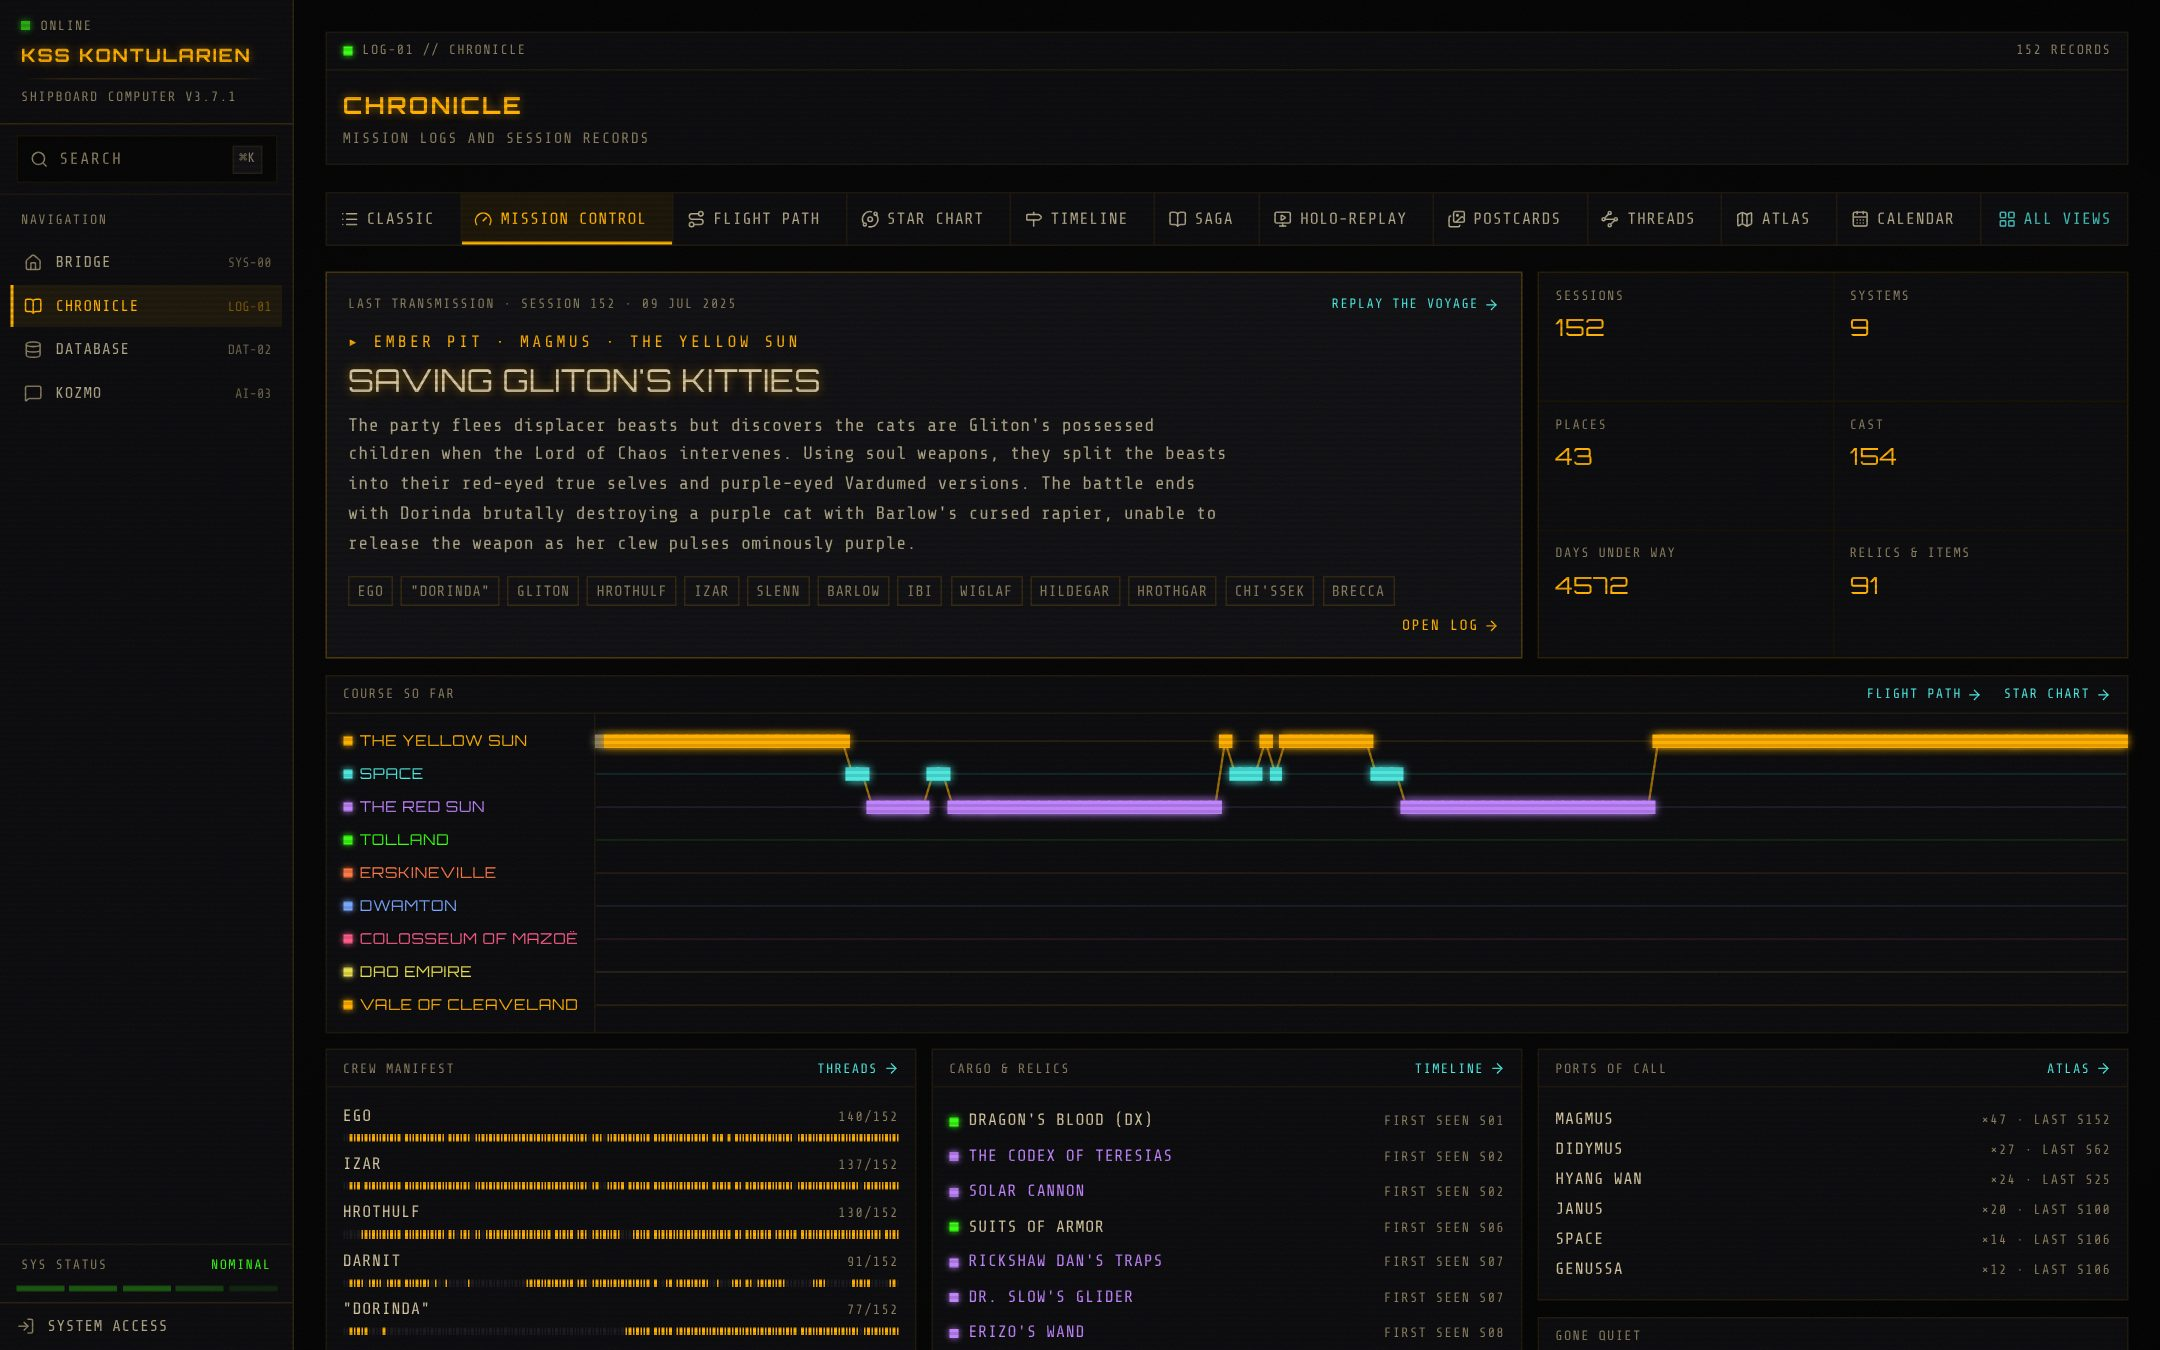
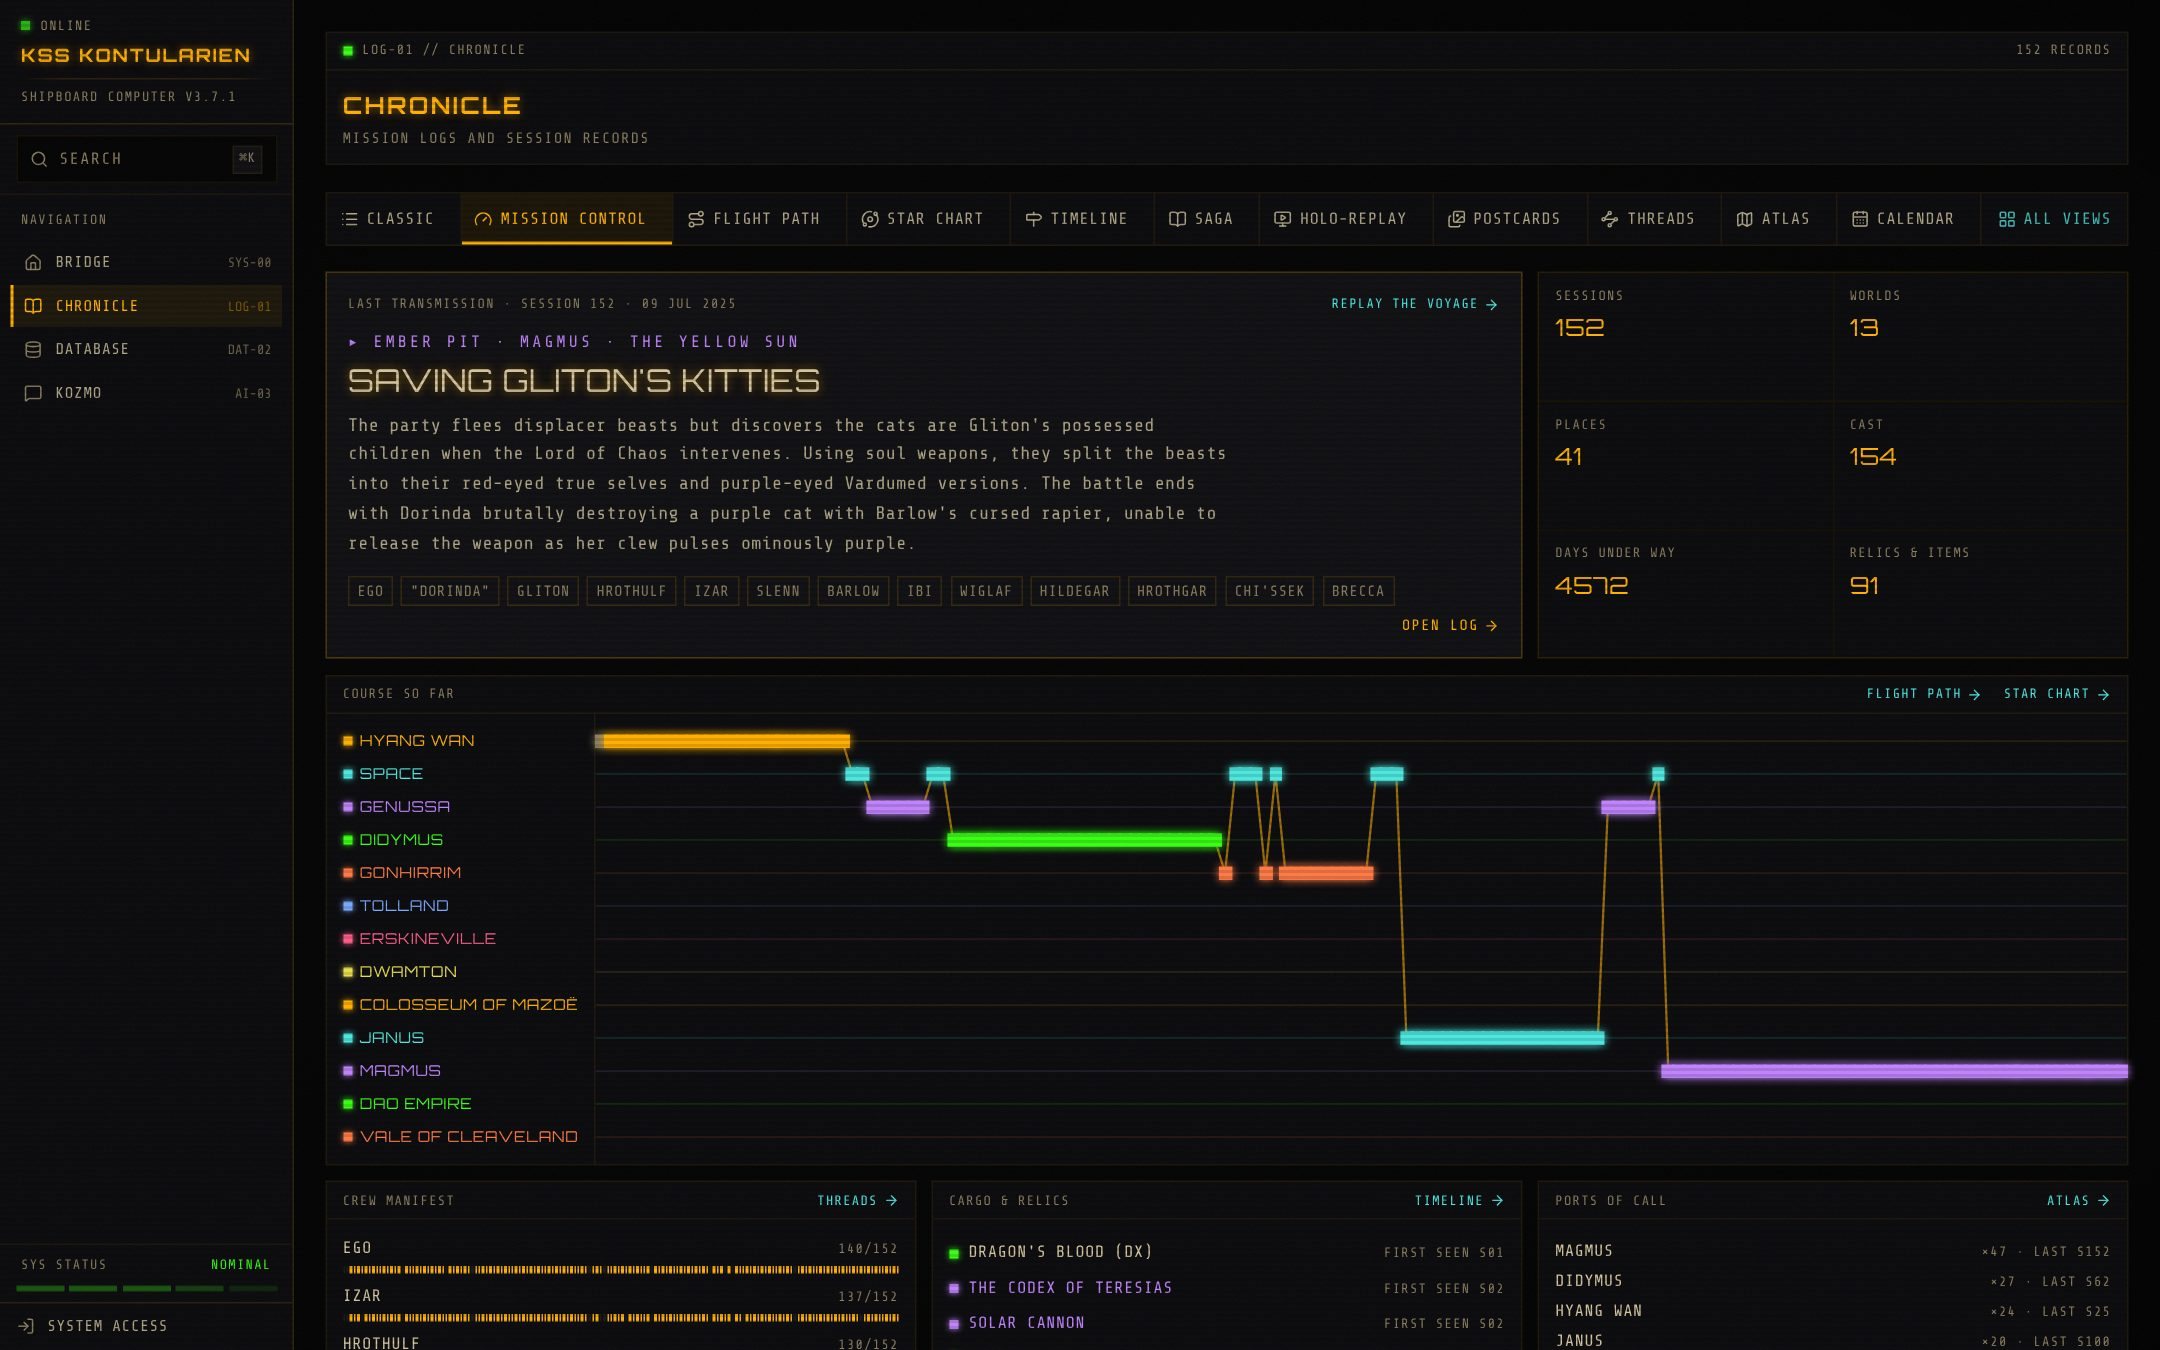
Group Chronicle views by world, compact Threads and Calendar for long campaigns
A place's path now starts at its world (the planet, or a place with
nothing above it); the star is kept only as a label. Every view
therefore colours and groups by planet, which is how the campaign
moves. Threads shows the top 40 rows with narrow cells on long
campaigns, and Calendar leaves out years with no play. Screenshots
re-taken on live data.

Claude-Session: https://claude.ai/code/session_01K8R5kp2JPYevcP6m7LYjnN

diff --git a/web/src/lib/components/chronicle/ThreadsView.svelte b/web/src/lib/components/chronicle/ThreadsView.svelte
@@ -17,7 +17,10 @@
 
 	let kindId = $state<(typeof KINDS)[number]['id']>('cast');
 	let kind = $derived(KINDS.find((k) => k.id === kindId) ?? KINDS[0]);
-	let byCount = $state(false);
+	let byCount = $state(true);
+	// Long campaigns have hundreds of threads: show the top ones until asked for all.
+	const TOP = 40;
+	let showAll = $state(false);
 
 	let threads = $derived.by(() => {
 		const list = buildThreads(sessions, kind.pick);
@@ -32,7 +35,7 @@
 	let panelWidth = $state(0);
 	// A narrower name column on phones leaves room for the marks.
 	let LABEL_W = $derived(panelWidth && panelWidth < 520 ? 132 : 200);
-	let CELL = $derived(Math.max(MIN_CELL, sessions.length ? Math.floor((panelWidth - LABEL_W) / sessions.length) : MIN_CELL));
+	let CELL = $derived(Math.max(sessions.length > 60 ? 8 : MIN_CELL, sessions.length ? Math.floor((panelWidth - LABEL_W) / sessions.length) : MIN_CELL));
 	let width = $derived(sessions.length * CELL);
 </script>
 
@@ -73,12 +76,12 @@
 							title="{session.title} · {shortDate(session.date)}"
 							onmouseenter={() => (hoverCol = i)}
 						>
-							{pad(session.n)}
+							{CELL >= 20 || session.n % 10 === 0 ? pad(session.n) : ''}
 						</a>
 					{/each}
 				</div>
 
-				{#each threads as thread (thread.ref.id)}
+				{#each showAll ? threads : threads.slice(0, TOP) as thread (thread.ref.id)}
 					<div class="flex {hoverRow === thread.ref.id ? 'bg-panel-hover' : ''}" role="presentation" onmouseenter={() => (hoverRow = thread.ref.id)}>
 						<div class="sticky left-0 z-10 flex shrink-0 items-center gap-2 border-r border-border-dim px-3 {hoverRow === thread.ref.id ? 'bg-panel-hover' : 'bg-hull'}" style:width="{LABEL_W}px" style:height="{MIN_CELL}px">
 							<a href="/database/{kind.route}/{thread.ref.id}" class="min-w-0 flex-1 truncate text-[11px] uppercase tracking-wider text-text-secondary hover:text-accent-amber">
@@ -93,7 +96,7 @@
 							{#each sessions as session, i (session.id)}
 								<div class="relative flex shrink-0 items-center justify-center {hoverCol === i ? 'bg-accent-amber/[0.07]' : ''}" style:width="{CELL}px" role="presentation" onmouseenter={() => (hoverCol = i)}>
 									{#if thread.hits.has(i)}
-										<a href="/chronicle/{session.id}" class="block h-3 w-3 transition-transform hover:scale-150" style:background={kind.colour}
+										<a href="/chronicle/{session.id}" class="block h-3 transition-transform hover:scale-150" style:width="{Math.min(12, CELL - 2)}px" style:background={kind.colour}
 											style:box-shadow="0 0 6px {kind.colour}" aria-label="{thread.ref.name} in session {session.n}: {session.title}"></a>
 									{/if}
 								</div>
@@ -103,6 +106,11 @@
 				{/each}
 			</div>
 		</div>
+		{#if threads.length > TOP}
+			<button type="button" class="w-full border-t border-border-dim px-3 py-2 text-left machine-text text-[10px] text-accent-amber hover:bg-panel-hover" onclick={() => (showAll = !showAll)}>
+				{showAll ? `SHOW TOP ${TOP}` : `SHOW ALL ${threads.length}`}
+			</button>
+		{/if}
 	{:else}
 		<p class="px-4 py-8 text-center machine-text text-text-muted">NO {kind.label.toUpperCase()} LINKED TO ANY SESSION YET</p>
 	{/if}

diff --git a/web/src/lib/chronicle/model.ts b/web/src/lib/chronicle/model.ts
@@ -4,8 +4,10 @@ export type Ref = { id: string; name: string };
 
 export type PlaceStop = Ref & {
 	type: string | null;
-	/** Ancestors from the outermost place (a star, usually) down to this place, inclusive. */
+	/** From the world (the planet, or a place with nothing above it) down to this place. */
 	path: Array<Ref & { type: string | null }>;
+	/** The star the world orbits, when it has one. */
+	star: string | null;
 };
 
 export type Session = {
@@ -57,7 +59,14 @@ function toStop(place: RawPlace): PlaceStop {
 	for (let p: RawPlace | null | undefined = place; p; p = p.parent) {
 		path.unshift({ id: p.id, name: p.name, type: p.placeType ?? null });
 	}
-	return { id: place.id, name: place.name, type: place.placeType ?? null, path };
+	// The campaign moves world to world, so a path starts at the world (the planet, or a
+	// place with nothing above it). The star above a world is kept only as a label.
+	let star: string | null = null;
+	if (path.length > 1 && path[0].type === 'STAR') {
+		star = path[0].name;
+		path.shift();
+	}
+	return { id: place.id, name: place.name, type: place.placeType ?? null, path, star };
 }
 
 /** Sessions in play order (oldest first; undated logs last), numbered from 1. */
@@ -108,10 +117,9 @@ export function daysBetween(a: Date | null, b: Date | null): number | null {
 
 /** "Port Veil · Calder · Ostra": the place, then what it is inside. */
 export function wherePath(stop: PlaceStop): string {
-	return [...stop.path]
-		.reverse()
-		.map((p) => p.name)
-		.join(' · ');
+	const names = [...stop.path].reverse().map((p) => p.name);
+	if (stop.star) names.push(stop.star);
+	return names.join(' · ');
 }
 
 /** The place a session is mainly set in: its most specific stop. */

diff --git a/web/src/lib/components/chronicle/CalendarView.svelte b/web/src/lib/components/chronicle/CalendarView.svelte
@@ -32,10 +32,12 @@
 			const start = new Date(Date.UTC(y, m, 1));
 			const days = new Date(Date.UTC(y, m + 1, 0)).getUTCDate();
 			const cells = Array.from({ length: days }, (_, d) => ({ day: d + 1, sessions: byDay.get(dayKey(y, m, d + 1)) ?? [] }));
-			out.push({ label: monthLabel(start), offset: start.getUTCDay(), cells, count: cells.reduce((n, c) => n + c.sessions.length, 0) });
+			out.push({ year: y, label: monthLabel(start), offset: start.getUTCDay(), cells, count: cells.reduce((n, c) => n + c.sessions.length, 0) });
 			if (++m > 11) { m = 0; y++; }
 		}
-		return out;
+		// Years with no play at all (a stray old document, a long hiatus) are left out.
+		const played = out.filter((m) => m.count).map((m) => m.year);
+		return out.filter((m) => played.includes(m.year));
 	});
 
 	let gaps = $derived(dated.slice(1).map((s, i) => ({ days: daysBetween(dated[i].date, s.date) ?? 0, before: s })));
@@ -103,6 +105,6 @@
 
 {#if longest}
 	<p class="machine-text text-[10px] text-text-faint">
-		LONGEST GAP: {longest.days} DAYS BEFORE SESSION {pad(longest.before.n)} ({shortDate(longest.before.date)}) · SQUARES ARE COLOURED BY STAR SYSTEM
+		LONGEST GAP: {longest.days} DAYS BEFORE SESSION {pad(longest.before.n)} ({shortDate(longest.before.date)}) · SQUARES ARE COLOURED BY WORLD
 	</p>
 {/if}

diff --git a/web/src/lib/components/chronicle/AtlasView.svelte b/web/src/lib/components/chronicle/AtlasView.svelte
@@ -54,7 +54,7 @@
 		<section class="border border-border-dim bg-hull" style:border-top-color={colour} style:border-top-width="2px">
 			<header class="flex flex-wrap items-baseline justify-between gap-2 border-b border-border-dim px-3 py-2.5">
 				<div>
-					<p class="machine-text text-[9px] text-text-muted">{typeLabel(root.type)} SYSTEM</p>
+					<p class="machine-text text-[9px] text-text-muted">{typeLabel(root.type)}</p>
 					<a href="/database/places/{root.id}" class="font-display text-base uppercase tracking-widest hover:underline" style:color={colour}>{root.name}</a>
 				</div>
 				<p class="text-right machine-text text-[9px] text-text-muted">
@@ -70,7 +70,7 @@
 						<div class="flex items-center gap-2">
 							{#if node.depth > 1}<span class="text-text-faint">└</span>{/if}
 							<a href="/database/places/{node.id}" class="truncate text-xs font-bold uppercase tracking-wider hover:text-accent-amber {node.sessions.length ? 'text-text-primary' : 'text-text-muted'}">
-								{node.depth === 0 ? `${node.name} (in orbit)` : node.name}
+								{node.depth === 0 ? `${node.name} (general)` : node.name}
 							</a>
 							<span class="machine-text text-[9px] text-text-faint">{typeLabel(node.type)}</span>
 							<span class="ml-auto h-1.5 w-24 shrink-0 bg-void">

diff --git a/web/src/lib/chronicle/views.ts b/web/src/lib/chronicle/views.ts
@@ -29,7 +29,7 @@ export const CHRONICLE_VIEWS = [
 		code: 'NAV',
 		tagline: 'A navigable map of the route',
 		description:
-			'Systems, worlds and ports drawn as a chart, with the route plotted across them. Scrub or play the voyage.'
+			'Worlds and their ports drawn as a chart, with the route plotted across them. Scrub or play the voyage.'
 	},
 	{
 		id: 'timeline',
@@ -61,7 +61,7 @@ export const CHRONICLE_VIEWS = [
 		code: 'PCD',
 		tagline: 'A wall of places visited',
 		description:
-			'One card per session with a small landscape drawn from where it is set. Filter by star system.'
+			'One card per session with a small landscape drawn from where it is set. Filter by world.'
 	},
 	{
 		id: 'threads',
@@ -77,7 +77,7 @@ export const CHRONICLE_VIEWS = [
 		code: 'ATL',
 		tagline: 'The story by location',
 		description:
-			'Every place the crew has been, nested by system and world, with the sessions that happened there.'
+			'Every place the crew has been, nested by world, with the sessions that happened there.'
 	},
 	{
 		id: 'calendar',

diff --git a/web/src/lib/components/chronicle/VoyageView.svelte b/web/src/lib/components/chronicle/VoyageView.svelte
@@ -99,7 +99,7 @@
 	<div class="flex flex-wrap items-center justify-between gap-2 border-b border-border-dim px-3 py-1.5">
 		<span class="machine-text text-[9px] text-text-muted">NAV-02 // FLIGHT PATH</span>
 		<span class="machine-text text-[9px] text-text-muted">
-			{sessions.length} SESSIONS · {tree.byId.size} PLACES · {jumps} SYSTEM JUMPS
+			{sessions.length} SESSIONS · {tree.byId.size} PLACES · {jumps} WORLD CHANGES
 		</span>
 	</div>
 
@@ -205,7 +205,7 @@
 	<div class="flex flex-wrap gap-x-4 gap-y-1 border-t border-border-dim px-3 py-1.5 machine-text text-[9px] text-text-muted">
 		<span>● MAIN SETTING</span>
 		<span>○ ALSO VISITED</span>
-		<span>┄ JUMP BETWEEN SYSTEMS</span>
+		<span>┄ TRAVEL BETWEEN WORLDS</span>
 	</div>
 </div>
 

diff --git a/web/src/lib/components/chronicle/ControlView.svelte b/web/src/lib/components/chronicle/ControlView.svelte
@@ -94,7 +94,7 @@
 	{/if}
 
 	<section class="grid grid-cols-2 gap-px border border-border-dim bg-border-dim">
-		{#each [['SESSIONS', count], ['SYSTEMS', tree.roots.length], ['PLACES', tree.byId.size], ['CAST', cast.length], ['DAYS UNDER WAY', span ?? '—'], ['RELICS & ITEMS', cargo.length]] as [label, value] (label)}
+		{#each [['SESSIONS', count], ['WORLDS', tree.roots.length], ['PLACES', tree.byId.size], ['CAST', cast.length], ['DAYS UNDER WAY', span ?? '—'], ['RELICS & ITEMS', cargo.length]] as [label, value] (label)}
 			<div class="bg-hull px-3 py-2.5">
 				<p class="machine-text text-[9px] text-text-muted">{label}</p>
 				<p class="mt-0.5 font-display text-lg text-accent-amber">{value}</p>

diff --git a/web/src/lib/components/chronicle/TimelineView.svelte b/web/src/lib/components/chronicle/TimelineView.svelte
@@ -74,7 +74,7 @@
 					<span class="relative inline-flex flex-wrap items-center gap-1.5 bg-void px-2 text-[10px] uppercase tracking-wider" style:color={entry.colour}>
 						{#if entry.moved}
 							<Rocket class="h-3 w-3" />
-							{entry.jumped ? `Jump to the ${entry.system?.name} system` : `Course set for ${entry.stop?.name}`}
+							{entry.jumped ? `Course set for ${entry.system?.name}` : `Course set for ${entry.stop?.name}`}
 						{/if}
 						{#if (entry.gap ?? 0) > 21}
 							<span class="text-text-faint">{entry.moved ? '· ' : ''}{entry.gap} days between sessions</span>

diff --git a/web/src/lib/components/chronicle/StarChartView.svelte b/web/src/lib/components/chronicle/StarChartView.svelte
@@ -134,7 +134,7 @@
 		<div class="flex flex-wrap items-center justify-between gap-2 border-b border-border-dim px-3 py-1.5">
 			<span class="machine-text text-[9px] text-text-muted">NAV-03 // STAR CHART</span>
 			<span class="machine-text text-[9px] text-text-muted">
-				{tree.roots.length} SYSTEMS · {tree.byId.size} PLACES · LEG {pad(at + 1)}/{pad(legs.length)}
+				{tree.roots.length} WORLDS · {tree.byId.size} PLACES · LEG {pad(at + 1)}/{pad(legs.length)}
 			</span>
 		</div>
 

diff --git a/web/src/lib/components/chronicle/PostcardsView.svelte b/web/src/lib/components/chronicle/PostcardsView.svelte
@@ -34,7 +34,7 @@
 </script>
 
 <div class="flex flex-wrap items-center gap-1.5 border border-border-dim bg-hull px-3 py-2">
-	<span class="mr-1 machine-text text-[9px] text-text-muted">SYSTEM</span>
+	<span class="mr-1 machine-text text-[9px] text-text-muted">WORLD</span>
 	<button type="button" class="chip {systemId === null ? 'chip-on' : ''}" onclick={() => (systemId = null)}>All · {cards.length}</button>
 	{#each tree.roots as root (root.id)}
 		<button
